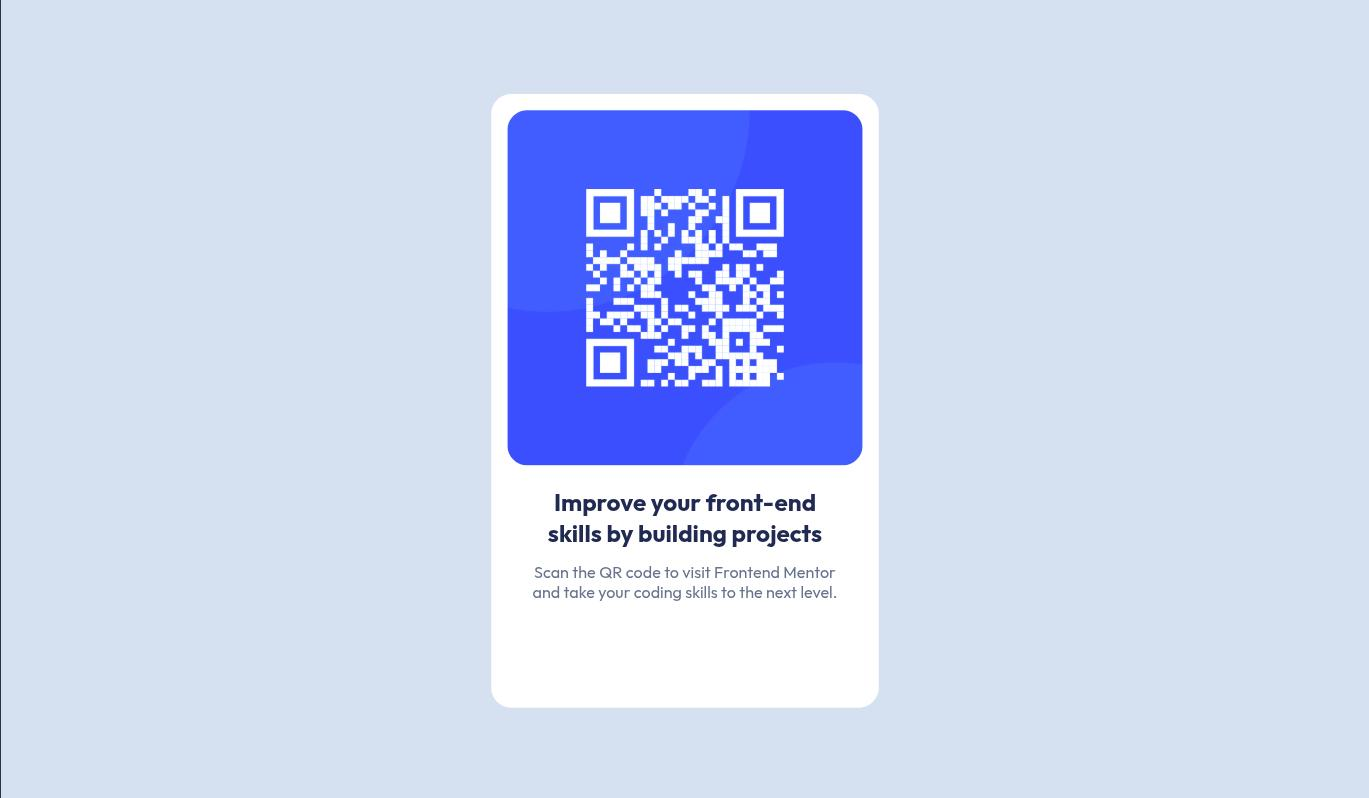
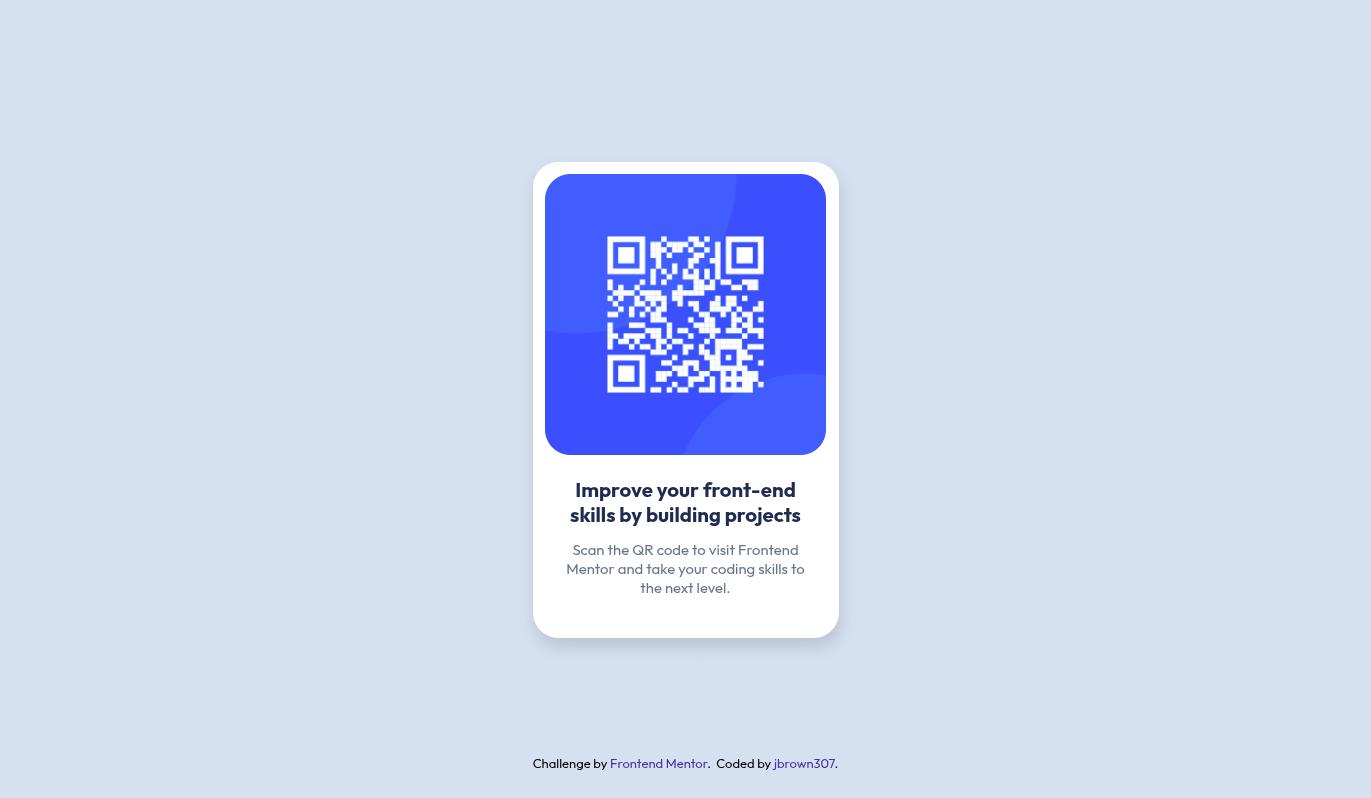
add: text decoration to links, seo meta description

Changed region(s): [[0.3375, 0.1203, 0.6443, 0.9023], [0.3988, 0.9323, 0.6136, 0.9624]]

diff --git a/docs/index.html b/docs/index.html
@@ -3,6 +3,7 @@
 <head>
     <meta charset="UTF-8">
     <meta name="viewport" content="width=device-width, initial-scale=1.0">
+    <meta name="description" content="Build your front-end skills with this QR Code component challenge from Frontend Mentor. Scan the code to visit Frontend Mentor and improve your web development abilities.">
     <link rel="icon" type="image/png" href="assets/favicon-32x32.png">
     <link rel="stylesheet" href="styles.css">
     <title>QR Code Component</title>

diff --git a/docs/styles.css b/docs/styles.css
@@ -78,7 +78,6 @@ footer {
 
     footer a {
         color: var(--attribution-anchor);
-        text-decoration: none;
     }
 
 
@@ -88,7 +87,7 @@ footer {
     background-color: var(--white);
     padding: 0.75rem;
     border-radius: var(--border-radius-normal);
-    /*fallack box-shadow property for old browsers*/
+    /*fallack box-shadow property for older browsers*/
     -webkit-box-shadow: 2px 9px 15px 1px rgba(0,0,0,0.12); 
     box-shadow: 2px 9px 15px 1px rgba(0,0,0,0.12);
 }

diff --git a/README.md b/README.md
@@ -100,6 +100,7 @@ This approach effectively halved the component size on small and medium screens 
 
 - [google-web-fonts-helper](https://gwfh.mranftl.com/fonts) - "A Hassle-Free Way to Self-Host Google Fonts"
 - [Squoosh](https://squoosh.app/) - "Squoosh is an image compression web app that reduces image sizes through numerous formats."
+- [Box-Shadow CSS Generator](https://html-css-js.com/css/generator/box-shadow/) - "Use the sliders and the color picker to set the values and watch the live preview until you reach the desired effect."
 - [Markup Validator](https://validator.w3.org/) - "The Markup Validator is a free tool and service that validates markup: in other words, it checks the syntax of Web documents, written in formats such as (X)HTML."
 
 ## Author
